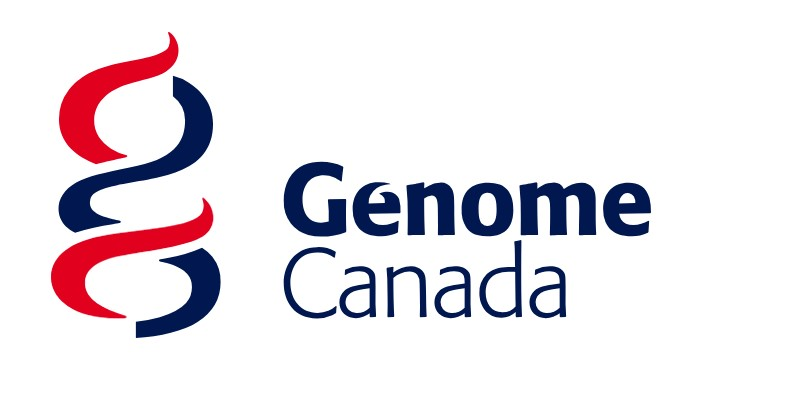
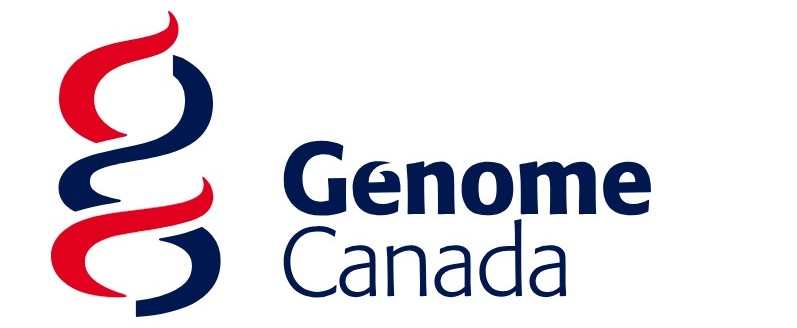
update team info

diff --git a/team.html b/team.html
@@ -397,6 +397,7 @@ target="_blank">EvoFunPath training program</a>.</p>
 <p>
 </br>
 </p>
+<p><img src="media/Harrison_Brian.png" width="30%" style = "float:right; padding:10px" style="display: block; margin: auto 0 auto auto;" /></p>
 </div>
 <div id="brian-harrison" class="section level3">
 <h3><a href="https://www.linkedin.com/in/brian-h-95b54b1a3/"
@@ -407,6 +408,9 @@ fungal plant pathogen <em>Fusarium graminearum</em>. Brian is an alumnus
 of the <a href="https://evofunpath.ibis.ulaval.ca/"
 target="_blank">EvoFunPath training program</a>.</p>
 <p><img src="media/EvoFunPath_logo.png" style="width: 30%; margin-left: 20px" align="left"/></p>
+<p>
+</br>
+</p>
 <p>
 </br>
 </p>
@@ -458,7 +462,7 @@ href="https://www.linkedin.com/in/raveena-manikku-badu-5b827410a/"
 target="_blank">Raveena Manikku Badu</a></h3>
 <p><em>Technician 3.</em><br />
 Raveena helps keep the lab running smoothly, and works on soil bacterial
-isolations &amp; genomics.</p>
+isolations, genome sequencing &amp; genomics.</p>
 <p>
 </br>
 </p>
@@ -502,6 +506,7 @@ physiology and nutrient uptake.</p>
 <p>
 </br>
 </p>
+<p><img src="media/Los_Laura.png" width="30%" style = "float:right; padding:10px" style="display: block; margin: auto 0 auto auto;" /></p>
 </div>
 <div id="laura-los" class="section level3">
 <h3><a href="https://www.linkedin.com/in/laura-dominika-los-/"
@@ -512,6 +517,12 @@ mixed oomycete communities from soil and diseased roots, characterizing
 impacts of <em>Fusarium</em> on malt quality, and screening wild
 populations of <em>Fusarium graminearum</em> for resistance to
 fungicides.</p>
+<p>
+</br>
+</p>
+<p>
+</br>
+</p>
 <p>
 </br>
 </p>
@@ -541,6 +552,80 @@ graminearum</em> and bioactive compounds in barley.</p>
 <p>
 </br>
 </p>
+<p><img src="media/Pages_Rebecca.jpeg" width="30%" style = "float:right; padding:10px" style="display: block; margin: auto 0 auto auto;" /></p>
+</div>
+<div id="rebecca-pagès" class="section level3">
+<h3><a href="https://www.linkedin.com/in/rebeccapages/"
+target="_blank">Rebecca Pagès</a></h3>
+<p><em>PhD student.</em><br />
+Rebecca is using metagenomics to understand how soil microbial
+communities respond to plants and to agricultural inputs like urease
+inhibitors and nitrification inhibitors.</p>
+<p>
+</br>
+</p>
+<p>
+</br>
+</p>
+<p>
+</br>
+</p>
+<p>
+</br>
+</p>
+<p>
+</br>
+</p>
+<p><img src="media/Rehman_Varisha.png" width="30%" style = "float:right; padding:10px" style="display: block; margin: auto 0 auto auto;" /></p>
+</div>
+<div id="varisha-rehman" class="section level3">
+<h3><a href="https://www.linkedin.com/in/varisha-rehman-245a432b6/"
+target="_blank">Varisha Rehman</a></h3>
+<p><em>Co-op student.</em><br />
+Varishaa is screening wild strains of <em>Fusarium graminearum</em> for
+fungicide sensitivity.</p>
+<p>
+</br>
+</p>
+<p>
+</br>
+</p>
+<p>
+</br>
+</p>
+<p>
+</br>
+</p>
+<p>
+</br>
+</p>
+<p>
+</br>
+</p>
+<p><img src="media/Remillard_Kyle.jpg" width="30%" style = "float:right; padding:10px" style="display: block; margin: auto 0 auto auto;" /></p>
+</div>
+<div id="kyle-remillard" class="section level3">
+<h3><a href="https://www.linkedin.com/in/kyle-remillard-23628a312/"
+target="_blank">Kyle Remillard</a></h3>
+<p><em>Undergraduate.</em><br />
+Kyle is helping with the development of biosensors for reporting the
+presence of deoxynivalenol.</p>
+<p>
+</br>
+</p>
+<p>
+</br>
+</p>
+<p>
+</br>
+</p>
+<p>
+</br>
+</p>
+<p>
+</br>
+</p>
+<p><img src="media/Gantt.png" width="90%" style="display: block; margin: auto auto auto 0;" /></p>
 </div>
 <div id="lab-alumni" class="section level2">
 <h2>Lab alumni</h2>
@@ -551,32 +636,50 @@ scholar</em></p>
 target="_blank">Kyle Remillard</a>, <em>Undergraduate summer
 research</em></p>
 <p>Guénaël Artus, <em>Mitacs Globalink visiting scholar</em></p>
-<p>Atheena Quilal-lan, <em>Undergraduate research project</em></p>
+<p>Atheena Quilal-lan, <em>Undergraduate honours project</em></p>
 <p><a href="https://www.linkedin.com/in/mehrdad-mohammadiani-733051232/"
-target="_blank">Mehrdad Mohammadiani</a>, <em>MSc</em> “Response of soil
-fungal communities associated with different soil fractions to tillage
-practices and crop rotation”</p>
+target="_blank">Mehrdad Mohammadiani</a>, <em>MSc</em><br />
+“Response of soil fungal communities associated with different soil
+fractions to tillage practices and crop rotation”</p>
 <p><a href="https://www.linkedin.com/in/tarin-farhana-59371268/"
-target="_blank">Tarin Farhana</a>, <em>MSc</em> “How <em>Fusarium
-graminearum</em> affects intermediate wheatgrass and its mycobiome”</p>
+target="_blank">Tarin Farhana</a>, <em>MSc</em><br />
+“How <em>Fusarium graminearum</em> affects intermediate wheatgrass and
+its mycobiome”</p>
 <p>Ridhima Arora, <em>Undergraduate</em></p>
 <p><a href="https://www.linkedin.com/in/robin-nelson-a83061268"
-target="_blank">Robin Nelson</a>, <em>Co-op</em></p>
+target="_blank">Robin Nelson</a>, <em>Co-op</em><br />
+<a
+href="https://www.tandfonline.com/doi/full/10.1080/07060661.2024.2435954"
+target="_blank">Interactions between <em>Fusarium graminearum</em> and
+hydroxycinnamic acids from cereal crops</a></p>
 <p><a href="https://www.linkedin.com/in/raveena-manikku-badu-5b827410a/"
 target="_blank">Raveena Manikku Badu</a>, <em>Co-op</em></p>
 <p><a href="https://www.linkedin.com/in/linh-le-2b256a1a2/"
 target="_blank">Linh Le</a>, <em>Undergraduate summer research</em></p>
-<p>Gillian Mitchell-Lawson, <em>Co-op</em></p>
+<p>Gillian Mitchell-Lawson, <em>Co-op</em><br />
+<a
+href="https://www.tandfonline.com/doi/full/10.1080/07060661.2024.2435954"
+target="_blank">Interactions between <em>Fusarium graminearum</em> and
+hydroxycinnamic acids from cereal crops</a></p>
 <p><a href="https://www.linkedin.com/in/phuong-pham-47175b242/"
 target="_blank">Mailly Pham</a>, <em>Co-op</em></p>
 <p><a href="https://www.linkedin.com/in/daksh-patel-63b605225/"
 target="_blank">Daksh Patel</a>, <em>Co-op</em></p>
 <p><a href="https://www.linkedin.com/in/janice-fajardo/"
-target="_blank">Janice Fajardo</a>, <em>MSc</em> “Relationships among
-<em>Fusarium graminearum</em> infection, phenolic acid content, and the
-presence of a competing fungus in malting barley”</p>
+target="_blank">Janice Fajardo</a>, <em>MSc</em><br />
+<a href="https://cdnsciencepub.com/doi/10.1139/cjm-2024-0095"
+target="_blank">Microbiome profiling suggests novel endosymbiont
+associations of insect pests of stored grain</a><br />
+<a
+href="https://www.tandfonline.com/doi/full/10.1080/07060661.2024.2435954"
+target="_blank">Interactions between <em>Fusarium graminearum</em> and
+hydroxycinnamic acids from cereal crops</a></p>
 <p><a href="https://www.linkedin.com/in/natasha-melnichuk-854415151/"
-target="_blank">Natasha Melnichuk</a>, <em>PhD student intern</em></p>
+target="_blank">Natasha Melnichuk</a>, <em>PhD student intern</em><br />
+<a
+href="https://www.tandfonline.com/doi/full/10.1080/07060661.2024.2435954"
+target="_blank">Interactions between <em>Fusarium graminearum</em> and
+hydroxycinnamic acids from cereal crops</a></p>
 <p><a href="https://www.linkedin.com/in/danielle-pascual-1556191b9/"
 target="_blank">Danielle Pascual</a>, <em>Co-op</em></p>
 <p><a
@@ -594,7 +697,7 @@ target="_blank">Minimal impacts on the wheat microbiome when
 <em>Trichoderma gamsii</em> T6085 is applied as a biocontrol agent to
 manage fusarium head blight disease</a></p>
 <p>Heidi Ahrenholtz, <em>Co-op</em></p>
-<p>Damian Elizalde Amezcua, <em>Undergraduate honours</em></p>
+<p>Damian Elizalde Amezcua, <em>Undergraduate honours project</em></p>
 <p><a href="https://www.linkedin.com/in/meagan-smith-5a6683213/"
 target="_blank">Meagan Smith</a>, <em>Undergraduate summer
 research</em></p>
@@ -602,7 +705,6 @@ research</em></p>
 <p>Heather Inglis, <em>Undergraduate</em></p>
 <p><a href="https://www.linkedin.com/in/shaimaa-eissa-msc-136013112/"
 target="_blank">Shaima Eissa</a>, <em>Lab Technician III</em></p>
-<p><img src="media/Gantt.png" width="90%" style="display: block; margin: auto auto auto 0;" /></p>
 </div>
 <div id="lab-alumni-from-us-department-of-agriculture"
 class="section level2">

diff --git a/research.html b/research.html
@@ -13,7 +13,7 @@
 
 <title>Research</title>
 
-<script src="site_libs/header-attrs-2.27/header-attrs.js"></script>
+<script src="site_libs/header-attrs-2.28/header-attrs.js"></script>
 <script src="site_libs/jquery-3.6.0/jquery-3.6.0.min.js"></script>
 <meta name="viewport" content="width=device-width, initial-scale=1" />
 <link href="site_libs/bootstrap-3.3.5/css/sandstone.min.css" rel="stylesheet" />
@@ -311,9 +311,9 @@ $(document).ready(function () {
 </div>
 
 
-<p>Our research investigates species interactions that impact the
-sustainability and productivity of cropping systems. Some of our current
-study systems include:</p>
+<p>We do microbiology that relates to the sustainability and
+productivity of cropping systems. Some of our current study systems
+include:</p>
 <p>
 </br>
 </p>
@@ -479,19 +479,19 @@ target="_blank">Dr. Kathryn Turner</a>.</p>
 <div id="we-gratefully-acknowledge-financial-support-from"
 class="section level4">
 <h4>We gratefully acknowledge financial support from:</h4>
-<p><img src = "media/Genome_Canada.jpg" style = "width: 50%; margin-left: 10px" align = "left">
-<img src = "media/Genome_Prairie.jpg" style = "width: 40%; margin-right: 10px" align = "right">
-<img src = "media/CFI_CMYK.png" style = "width: 55%; margin-left: 10px" align = "left">
-<img src = "media/RM_logo.png" style = "width: 35%; margin-right: 20px" align = "right">
-<img src = "media/Logo_Departmental.png" style = "width: 50%; margin-left: 10px" align = "left">
-<img src = "media/ManitobaCropAlliance_logo.png" style = "width: 40%; margin-right: 10px" align = "right">
-<img src = "media/MPSG_logo.png" style = "width: 40%; margin-left: 10px" align = "left">
-<img src = "media/SaskBarley_logo.png" style = "width: 40%; margin-right: 10px" align = "right">
-<img src = "media/SaskWheat_logo.png" style = "width: 42%; margin-right: 10px" align = "right">
-<img src = "media/WGRF_logo.png" style = "width: 40%; margin-left: 10px" align = "left">
-<img src = "media/Mitacs_logo.webp" style = "width: 35%; margin-left: 10px" align = "left">
-<img src = "media/NSERC_RGB.png" style = "width: 30%; margin-left: 10px" align = "left">
-<img src = "media/SCAP_logo.jpg" style = "width: 35%; margin-right: 10px" align = "right"></p>
+<p><img src = "media/Genome_Canada.jpg" style = "width: 50%" align = "left">
+<img src = "media/Genome_Prairie.jpg" style = "width: 40%" align = "right">
+<img src = "media/CFI_CMYK.png" style = "width: 55%" align = "left">
+<img src = "media/RM_logo.png" style = "width: 35%" align = "right">
+<img src = "media/Logo_Departmental.png" style = "width: 50%" align = "left">
+<img src = "media/ManitobaCropAlliance_logo.png" style = "width: 40%" align = "right">
+<img src = "media/MPSG_logo.png" style = "width: 40%" align = "left">
+<img src = "media/SaskBarley_logo.png" style = "width: 40%" align = "right">
+<img src = "media/SaskWheat_logo.png" style = "width: 42%" align = "right">
+<img src = "media/WGRF_logo.png" style = "width: 40%" align = "left">
+<img src = "media/NSERC_RGB.png" style = "width: 30%" align = "right">
+<img src = "media/Mitacs_logo.webp" style = "width: 40%" align = "left">
+<img src = "media/SCAP_logo.jpg" style = "width: 40%" align = "left"></p>
 </div>
 </div>
 

diff --git a/index.html b/index.html
@@ -13,7 +13,7 @@
 
 <title>Agricultural Microbial Ecology research group</title>
 
-<script src="site_libs/header-attrs-2.25/header-attrs.js"></script>
+<script src="site_libs/header-attrs-2.28/header-attrs.js"></script>
 <script src="site_libs/jquery-3.6.0/jquery-3.6.0.min.js"></script>
 <meta name="viewport" content="width=device-width, initial-scale=1" />
 <link href="site_libs/bootstrap-3.3.5/css/sandstone.min.css" rel="stylesheet" />
@@ -312,18 +312,17 @@ group</h1>
 </div>
 
 
-<p>Our research investigates microbial ecology and species interactions,
-as connected to the productivity and sustainability of cropping systems.
-At present, our research emphasizes <em>Fusarium graminearum</em>, a
-fungal pathogen of cereal crops, and various aspects of soil
-microbiology.</p>
+<p>We study microbial ecology and species interactions, as connected to
+the productivity and sustainability of cropping systems. We focus
+particularly on <em>Fusarium graminearum</em>, a fungal pathogen of
+cereal crops, and on various aspects of soil microbiology.</p>
 <p>We are in the <a href="http://www.sci.umanitoba.ca/micro/"
 target="_blank">Department of Microbiology</a> at the <a
 href="https://umanitoba.ca/" target="_blank">University of
 Manitoba</a>.</p>
 <!-- <p style="color:red">I am currently recruiting for 2 graduate students, one in soil microbiomes and one in MALDI biotyping of fungal plant pathogens.</p> -->
 <figure>
-<img src="media/Fusarium_WheatSeed_viaNCAUR.png" style="width:100%; border:3px solid; margin-right: 20px">
+<img src="media/Fusarium_WheatSeed_viaNCAUR.png" style="width:100%; border:3px solid" align = "left">
 <figcaption>
 <em>Fusarium graminearum</em> growing on a kernel of wheat
 </figcaption>
